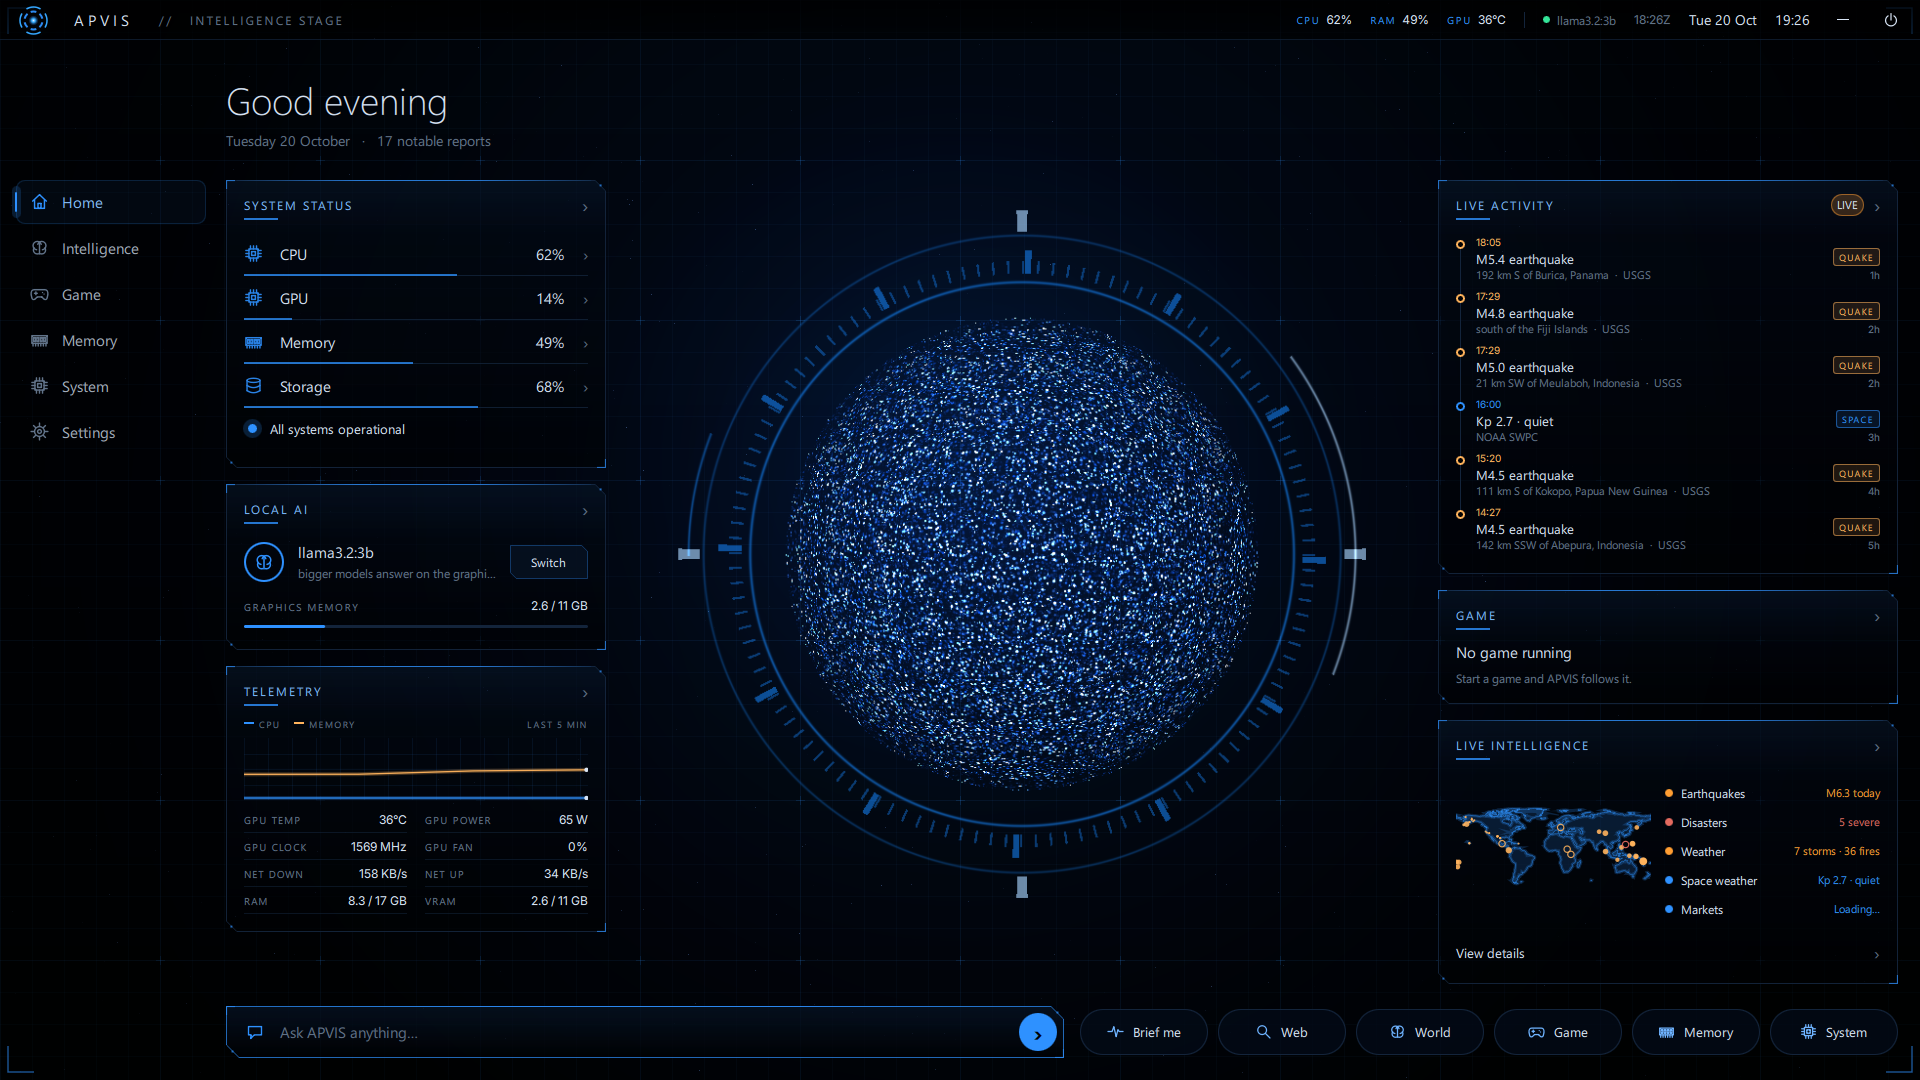
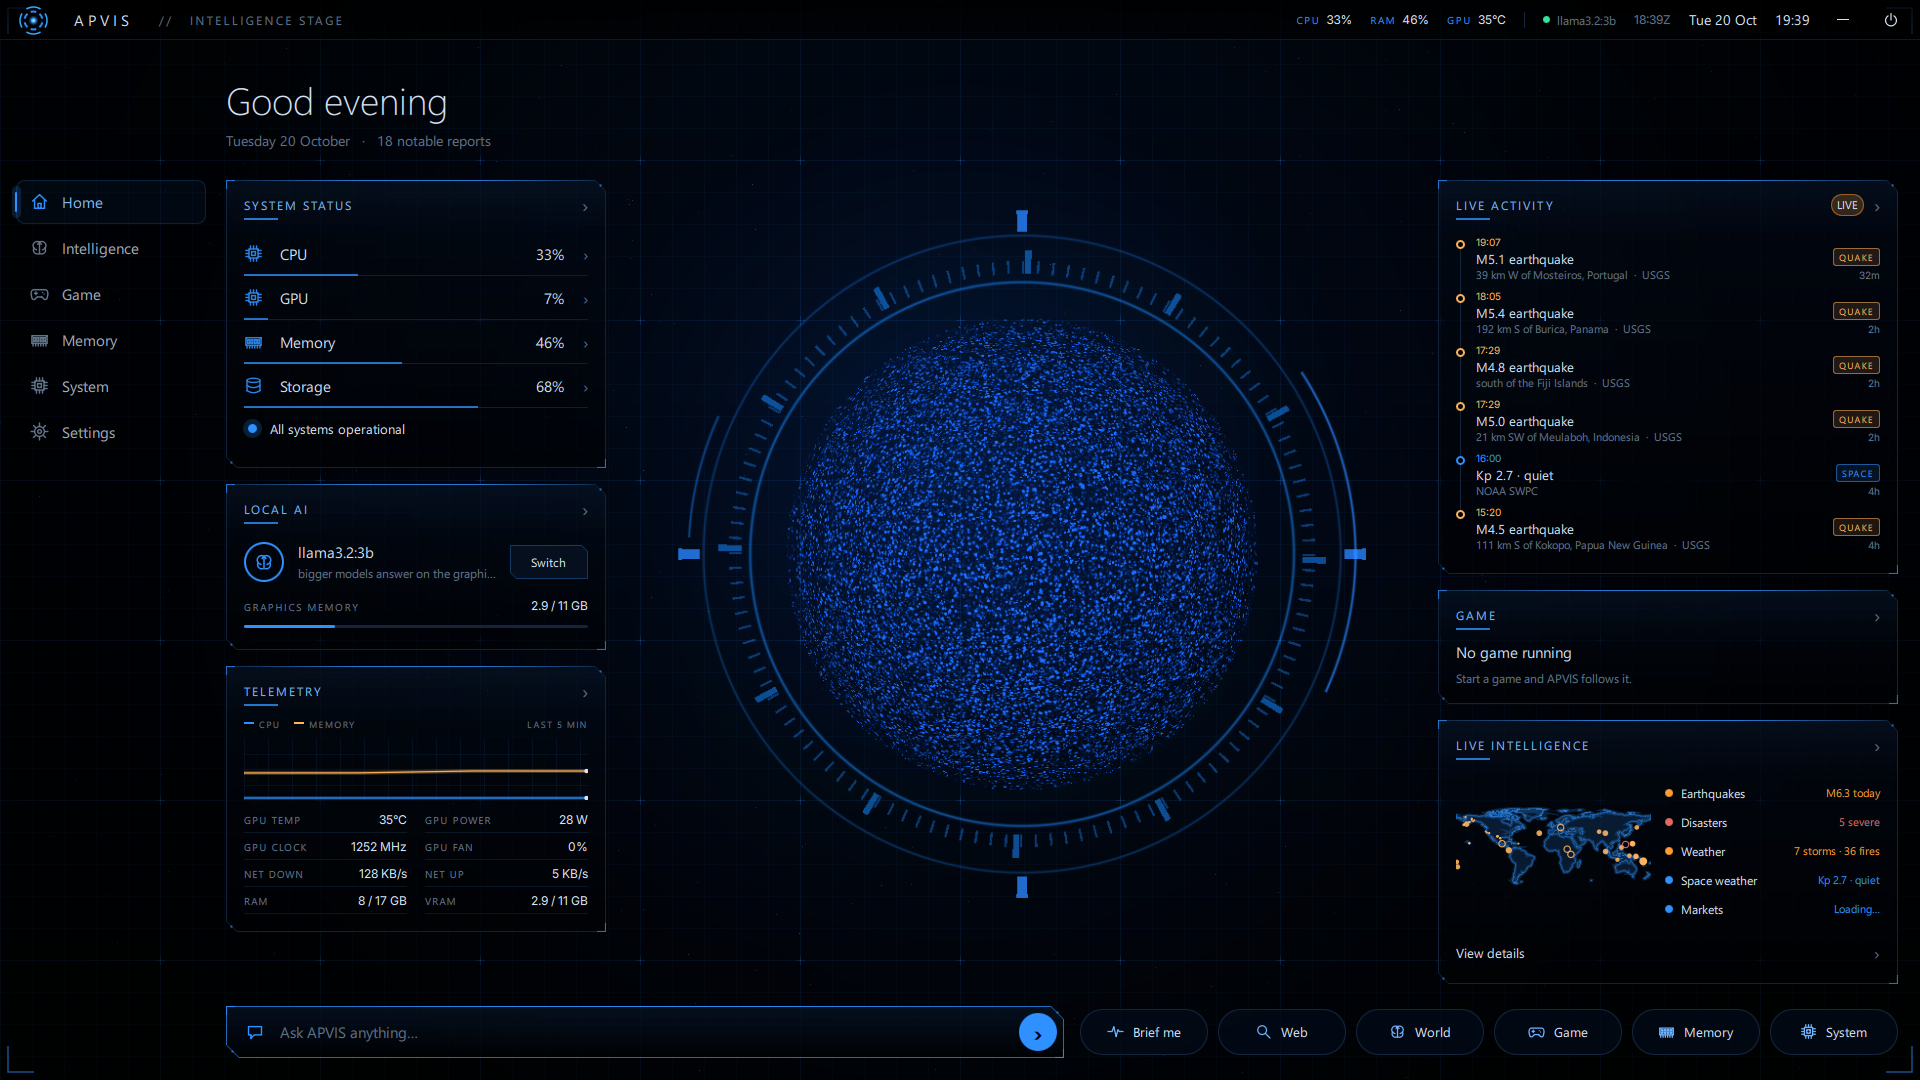
Sync APVIS (all-blue core, display-rate core and globe); README for the new app with fresh screenshots

diff --git a/app/qml/atlas/AtlasGlobe.qml b/app/qml/atlas/AtlasGlobe.qml
@@ -80,10 +80,21 @@ Item {
     onLon0Changed: art.requestPaint()
     onLat0Changed: art.requestPaint()
 
+    // APVIS for Windows: turn at the display's refresh rate (60/144 Hz) instead of the OptiPlex's ~25 fps.
+    property bool smooth: false
+    FrameAnimation {
+        running: globe.visible && !globe.still && globe.smooth
+        onTriggered: {
+            const dt = Math.min(0.1, frameTime)
+            globe.phase = (globe.phase + 0.45 * dt) % 1
+            if (!drag.pressed && Date.now() > globe.idleUntil && !turnTo.running) globe.lon0 = (globe.lon0 + 3 * dt) % 360
+            art.requestPaint()
+        }
+    }
     // ~25 fps turning and pulsing while visible (paused while dragging, after a pick, or with Reduce motion).
     Timer {
         interval: 40; repeat: true
-        running: globe.visible && !globe.still
+        running: globe.visible && !globe.still && !globe.smooth
         onTriggered: {
             globe.phase = (globe.phase + 0.018) % 1
             if (!drag.pressed && Date.now() > globe.idleUntil && !turnTo.running) globe.lon0 = (globe.lon0 + 0.12) % 360
@@ -153,6 +164,15 @@ Item {
         }
     }
 
+    // APVIS for Windows: land, grid, night and shading on the GPU (the Canvas below then skips them).
+    readonly property bool gpu: smooth
+    GlobeBase {
+        anchors.fill: parent
+        visible: globe.gpu
+        lon0: globe.lon0; lat0: globe.lat0
+        radius: globe.radius; centre: Qt.point(globe.cx, globe.cy)
+        sun: globe.sunNow; night: globe.night
+    }
     // Dynamic: graticule, land, events.
     Canvas {
         id: art
@@ -163,6 +183,7 @@ Item {
             c.reset(); c.clearRect(0, 0, width, height)
             if (R < 10) return
             // Graticule (front half only).
+            if (!globe.gpu) {
             c.strokeStyle = globe.rgba(Theme.accent, 0.13); c.lineWidth = 0.8
             c.beginPath()
             for (let lo = -180; lo < 180; lo += 30) {
@@ -180,12 +201,14 @@ Item {
                 }
             }
             c.stroke()
+            }
             // Continents: projected coastline rings; the far side folds onto the limb.
             const a = globe.lon0 * Math.PI / 180, p = globe.lat0 * Math.PI / 180
             const ca = Math.cos(a), sa = Math.sin(a), cp = Math.cos(p), sp = Math.sin(p)
             const P = (x, y, z) => { const x1 = x * ca - z * sa, z1 = z * ca + x * sa
                                      return [x1, y * cp - z1 * sp, y * sp + z1 * cp] }
             const cx0 = globe.cx, cy0 = globe.cy
+            if (!globe.gpu) {
             c.beginPath()
             for (const ring of globe.landUnits) {
                 let any = false
@@ -218,9 +241,10 @@ Item {
                 }
             }
             c.stroke()
+            }
             // Night: the half of the sphere facing away from the sun, bounded by
             // the terminator (a great circle, drawn exactly).
-            if (globe.night) {
+            if (globe.night && !globe.gpu) {
                 const S = globe.sun()
                 const s2 = P(S[0], S[1], S[2])
                 // Two unit vectors across the terminator circle.
@@ -261,7 +285,8 @@ Item {
                 for (const q of ring) { if (q[2] > 0) { pen ? c.lineTo(cx0 + R * q[0], cy0 - R * q[1]) : c.moveTo(cx0 + R * q[0], cy0 - R * q[1]); pen = true } else pen = false }
                 c.stroke()
                 globe.sunNow = S
-            }
+            } else if (globe.night) globe.sunNow = globe.sun()
+            if (!globe.gpu) {
             // Sphere shading: a highlight up-left and the limb darkening.
             const hi = c.createRadialGradient(cx0 - R * 0.4, cy0 - R * 0.45, 0, cx0 - R * 0.4, cy0 - R * 0.45, R * 0.9)
             hi.addColorStop(0, Theme.css(Theme.sheenBase, 0.08)); hi.addColorStop(1, Theme.css(Theme.sheenBase, 0))
@@ -269,6 +294,7 @@ Item {
             const limb = c.createRadialGradient(cx0, cy0, R * 0.62, cx0, cy0, R)
             limb.addColorStop(0, Theme.css(Theme.shadeBase, 0)); limb.addColorStop(1, Theme.css(Theme.shadeBase, 0.5))
             c.fillStyle = limb; c.fill()
+            }
             // Oceans and cities.
             c.textAlign = "center"
             c.font = "italic " + Math.max(9, R * 0.028) + "px sans-serif"

diff --git a/app/qml/atlas/GlobeBase.qml b/app/qml/atlas/GlobeBase.qml
@@ -1,0 +1,53 @@
+import QtQuick
+import QtQuick3D
+import "../theme"
+
+// The globe's land, grid, night and shading drawn by one shader (globe.frag) so the Intelligence globe can
+// turn at the display's refresh rate in APVIS for Windows; AtlasGlobe's Canvas then only draws what moves.
+Item {
+    id: base
+    property real lon0: 0
+    property real lat0: 0
+    property real radius: 100
+    property point centre: Qt.point(0, 0)
+    property var sun: [0, 0, 1]
+    property bool night: true
+
+    View3D {
+        x: base.centre.x - base.radius
+        y: base.centre.y - base.radius
+        width: Math.max(2, Math.round(base.radius * 2))
+        height: width
+        environment: SceneEnvironment {
+            backgroundMode: SceneEnvironment.Transparent
+            antialiasingMode: SceneEnvironment.NoAA
+        }
+        OrthographicCamera { z: 100 }
+        Model {
+            source: "#Rectangle"
+            materials: CustomMaterial {
+                shadingMode: CustomMaterial.Unshaded
+                sourceBlend: CustomMaterial.One
+                destinationBlend: CustomMaterial.OneMinusSrcAlpha
+                depthDrawMode: Material.NeverDepthDraw
+                cullMode: Material.NoCulling
+                vertexShader: "../home/jarvis.vert"
+                fragmentShader: "globe.frag"
+                property real uLon0: base.lon0
+                property real uLat0: base.lat0
+                property real uExtent: 1.0
+                property real uNightOn: base.night ? 1.0 : 0.0
+                property vector3d uSun: Qt.vector3d(base.sun[0], base.sun[1], base.sun[2])
+                property color uAccent: Theme.accent
+                property color uText: Theme.text
+                property color uNight: Theme.globeNight
+                property color uWarm: Theme.warm
+                property color uSheen: Theme.sheenBase
+                property color uShade: Theme.shadeBase
+                property TextureInput uLand: TextureInput {
+                    texture: Texture { source: "../art/world-mask.png"; generateMipmaps: true; mipFilter: Texture.Linear }
+                }
+            }
+        }
+    }
+}

diff --git a/app/qml/atlas/Atlas.qml b/app/qml/atlas/Atlas.qml
@@ -420,6 +420,7 @@ Item {
         AtlasGlobe {
             id: globeView
             anchors.fill: parent
+            smooth: typeof windowsApp !== "undefined" && windowsApp && !((shell.game || {}).active)
             anchors.leftMargin: 56                                     // clear of the layer rail
             anchors.rightMargin: atlas.sideOpen ? side.width + 24 : 0   // centred in the free space
             Behavior on anchors.rightMargin { NumberAnimation { duration: 320; easing.type: Easing.OutCubic } }

diff --git a/app/qml/Home.qml b/app/qml/Home.qml
@@ -225,7 +225,7 @@ Window {
         expanded: root.expand
         vsync: !(shell.render || {}).software
         idlePace: root.userIdle ? 12 : 24
-        smooth: root.app && !root.userIdle && !root.game.active   // not while a game wants the GPU
+        smooth: root.app && !root.game.active   // display rate in the app, even while you just watch; not while a game wants the GPU
         gaming: !!root.game.active
         paused: !root.active && !root.previewWindowed
         answerScale: root.answerScale

diff --git a/README.md b/README.md
@@ -1,42 +1,57 @@
 # APVIS for Windows
 
-APVIS Home as a Windows app: full screen on its own monitor (your second screen when it's connected, otherwise the
-main one), with the same lacquer-and-gold look, the APVIS core, and Ask with local AI. On a gaming PC it also
-follows the game you're playing and shows its live stats (game mode).
+APVIS as a Windows app: a full-screen intelligence dashboard on its own monitor (your second screen when it's
+connected, otherwise the main one), in APVIS 7's blue "Neural Fabric" look. It follows the world through open data,
+answers with local AI on your graphics card, and follows the game you're playing.
 
 It is the Windows companion to [APVIS OS](https://github.com/LUCKY-LKY3/APVIS-OS) (the Debian-based OS that runs
-on the OptiPlex). The APVIS code in `app/` is copied from there with `scripts/sync-from-apvis-os.sh`.
+on the OptiPlex). The APVIS code in `app/` is copied from there with `scripts/sync-from-apvis-os.sh`; the Windows
+layout switches on by itself when it runs on Windows.
 
 ![APVIS for Windows](docs/home.png)
 
-## What works on Windows
+## What's in it
 
-- Home, the core and the whole look; System, Memory, Atlas, Settings.
-- **Ask** with local AI through [Ollama for Windows](https://ollama.com/download) (it uses your graphics card),
-  web search when it isn't sure, news catch-up, conversation memory, pictures.
-- **Game mode**: spots the game you are playing (Steam, Epic, Riot, GOG, Ubisoft, EA, Xbox libraries, or any full-screen game), times your sessions and playtime, and shows live CPU, GPU, temperature, graphics memory, power and clock from your NVIDIA card. Frame rate shows only if PresentMon is installed.
+- **Home**: the JARVIS particle core (all blue, drawn on the graphics card, at your monitor's refresh rate) in its
+  HUD ring; System status (CPU, GPU, memory, storage), Local AI, and Telemetry (CPU and memory graph, GPU
+  temperature, power, clock, fan, network, RAM, graphics memory) on the left; a Live Activity timeline of real
+  reports, the Game card and a world summary on the right; the Ask bar and quick actions (Brief me, Web, World,
+  Game, Memory, System) along the bottom.
+- **Intelligence**: the world globe, also at your monitor's refresh rate, with earthquakes (USGS), natural events
+  (NASA EONET), disasters (GDACS), space weather (NOAA), the ISS, about 3,000 satellites (CelesTrak orbits, positions
+  computed on this PC; click one for its details and orbit), London traffic cameras, markets and news (BBC World,
+  Tech, Science), plus flights when you zoom in.
+- **Ask**: local AI through [Ollama for Windows](https://ollama.com/download). Bigger models (e.g. `qwen3.5:9b`)
+  answer on the graphics card; quick questions use a small one. Web search when it isn't sure, news catch-up,
+  conversation memory.
+- **Game mode**: spots the game you are playing (Steam, Epic, Riot, GOG, Ubisoft, EA, Xbox libraries, or any
+  full-screen game), times sessions and playtime, and shows live CPU, GPU, temperature, graphics memory, power and
+  clock from your NVIDIA card. While a game runs, APVIS clears its models off the graphics card, answers in light
+  mode on the CPU, and slows its animations, so the game gets the GPU.
 
-![Game mode](docs/game.png)
+![Intelligence](docs/intelligence.png)
 
-Things that only exist on APVIS OS (power, Wi-Fi, remote access, the Apps Store's installs, the login screen,
-signed updates) are not part of the Windows app.
+Things that only exist on APVIS OS (power, Wi-Fi, remote access, the Apps Store, the login screen, signed
+updates, the terminal) are not part of the Windows app.
 
 ## Install
 
-1. Install [Ollama](https://ollama.com/download) and pull a model, e.g. `ollama pull llama3.2:3b`.
+1. Install [Ollama](https://ollama.com/download) and pull models, e.g. `ollama pull qwen3.5:9b` and
+   `ollama pull llama3.2:3b`.
 2. Build the package (needs a Python 3.12 folder with PySide6 and psutil):
    `powershell -ExecutionPolicy Bypass -File scripts\build-package.ps1 -Python <that folder>`
 3. Install it from `dist\APVIS`:
    `powershell -ExecutionPolicy Bypass -File dist\APVIS\Install-APVIS.ps1 [-StartWithWindows]`
-4. Start **APVIS** from the Start menu. **Alt+F4** closes it.
+4. Start **APVIS** from the Start menu. The — button minimises it; the power button or **Alt+F4** closes it.
 
 Options: set `APVIS_SCREEN=1` (or 2, …) to choose the monitor, `APVIS_WINDOWED=1` for a normal window.
-Your APVIS data lives in `%LOCALAPPDATA%\APVIS` (memory vault, settings, a log in `apvis.log`).
+Your APVIS data lives in `%LOCALAPPDATA%\APVIS` (memory vault, settings, satellite cache, a log in `apvis.log`).
 
 ## Layout
 
 | Path | What |
 |---|---|
 | `APVIS.pyw` | the launcher |
-| `app/` | APVIS Home (Python package `apvis_os`, QML, art, map data) copied from APVIS OS |
+| `app/` | APVIS (Python package `apvis_os`, QML, art, map data) copied from APVIS OS |
 | `scripts/` | sync from APVIS OS, build the package, install / uninstall |
+| `docs/` | screenshots |
